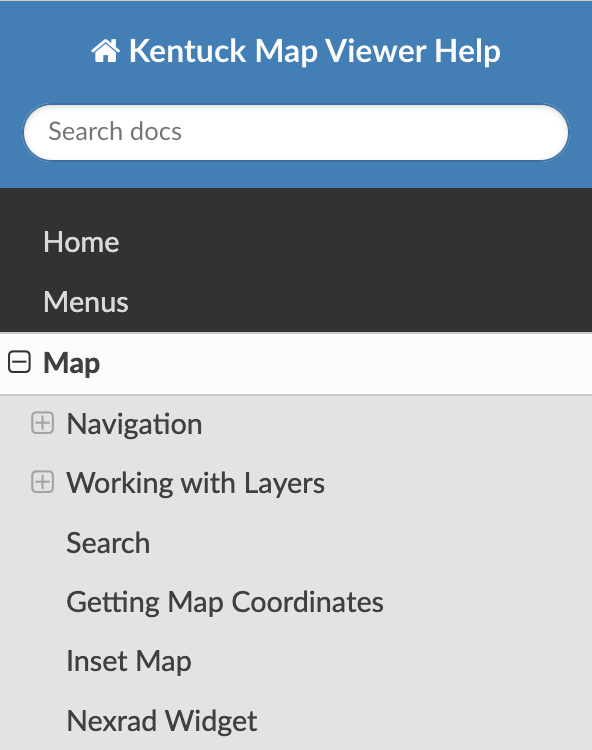
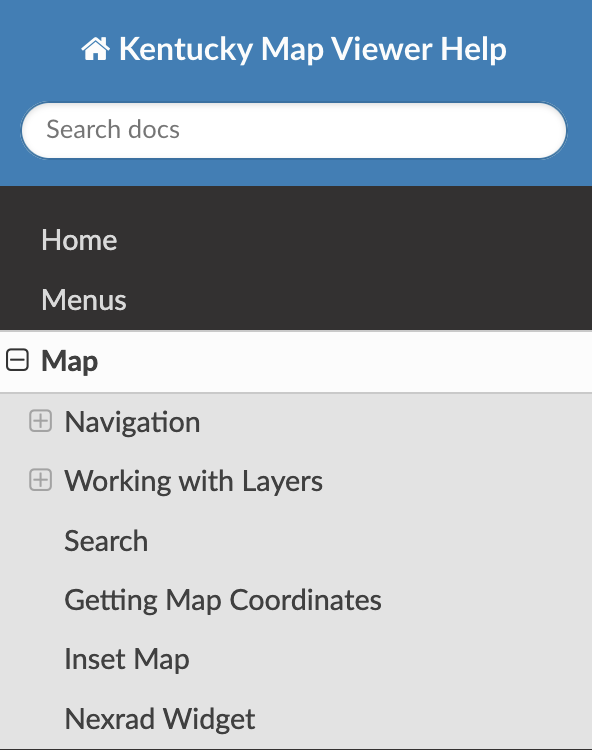
fix typos

diff --git a/ky-mapviewer-help/site/menu/index.html b/ky-mapviewer-help/site/menu/index.html
@@ -5,7 +5,7 @@
     <meta http-equiv="X-UA-Compatible" content="IE=edge" />
     <meta name="viewport" content="width=device-width, initial-scale=1.0" />
       <link rel="shortcut icon" href="../img/favicon.ico" />
-    <title>Menus - Kentuck Map Viewer Help</title>
+    <title>Menus - Kentucky Map Viewer Help</title>
     <link rel="stylesheet" href="../css/theme.css" />
     <link rel="stylesheet" href="../css/theme_extra.css" />
         <link rel="stylesheet" href="https://cdnjs.cloudflare.com/ajax/libs/highlight.js/11.8.0/styles/github.min.css" />
@@ -30,7 +30,7 @@
     <nav data-toggle="wy-nav-shift" class="wy-nav-side stickynav">
     <div class="wy-side-scroll">
       <div class="wy-side-nav-search">
-          <a href=".." class="icon icon-home"> Kentuck Map Viewer Help
+          <a href=".." class="icon icon-home"> Kentucky Map Viewer Help
         </a><div role="search">
   <form id ="rtd-search-form" class="wy-form" action="../search.html" method="get">
       <input type="text" name="q" placeholder="Search docs" aria-label="Search docs" title="Type search term here" />
@@ -60,7 +60,7 @@
     <section data-toggle="wy-nav-shift" class="wy-nav-content-wrap">
       <nav class="wy-nav-top" role="navigation" aria-label="Mobile navigation menu">
           <i data-toggle="wy-nav-top" class="fa fa-bars"></i>
-          <a href="..">Kentuck Map Viewer Help</a>
+          <a href="..">Kentucky Map Viewer Help</a>
         
       </nav>
       <div class="wy-nav-content">
@@ -97,7 +97,7 @@
 </tr>
 <tr>
 <td><img alt="School and Hospital Search" src="svg/school-hospital-search.svg" /></td>
-<td>This widget allows users to zoome to schools and hospitals.</td>
+<td>This widget allows users to zoom to schools and hospitals.</td>
 </tr>
 <tr>
 <td><img alt="Legend" src="svg/legends.svg" /></td>

diff --git a/ky-mapviewer-help/site/index.html b/ky-mapviewer-help/site/index.html
@@ -5,7 +5,7 @@
     <meta http-equiv="X-UA-Compatible" content="IE=edge" />
     <meta name="viewport" content="width=device-width, initial-scale=1.0" /><meta name="description" content="None" />
       <link rel="shortcut icon" href="img/favicon.ico" />
-    <title>Kentuck Map Viewer Help</title>
+    <title>Kentucky Map Viewer Help</title>
     <link rel="stylesheet" href="css/theme.css" />
     <link rel="stylesheet" href="css/theme_extra.css" />
         <link rel="stylesheet" href="https://cdnjs.cloudflare.com/ajax/libs/highlight.js/11.8.0/styles/github.min.css" />
@@ -30,7 +30,7 @@
     <nav data-toggle="wy-nav-shift" class="wy-nav-side stickynav">
     <div class="wy-side-scroll">
       <div class="wy-side-nav-search">
-          <a href="." class="icon icon-home"> Kentuck Map Viewer Help
+          <a href="." class="icon icon-home"> Kentucky Map Viewer Help
         </a><div role="search">
   <form id ="rtd-search-form" class="wy-form" action="./search.html" method="get">
       <input type="text" name="q" placeholder="Search docs" aria-label="Search docs" title="Type search term here" />
@@ -64,7 +64,7 @@
     <section data-toggle="wy-nav-shift" class="wy-nav-content-wrap">
       <nav class="wy-nav-top" role="navigation" aria-label="Mobile navigation menu">
           <i data-toggle="wy-nav-top" class="fa fa-bars"></i>
-          <a href=".">Kentuck Map Viewer Help</a>
+          <a href=".">Kentucky Map Viewer Help</a>
         
       </nav>
       <div class="wy-nav-content">
@@ -288,5 +288,5 @@
 
 <!--
 MkDocs version : 1.6.1
-Build Date UTC : 2025-10-30 15:26:27.384608+00:00
+Build Date UTC : 2025-10-31 14:53:48.985810+00:00
 -->

diff --git a/ky-mapviewer-help/site/map/index.html b/ky-mapviewer-help/site/map/index.html
@@ -5,7 +5,7 @@
     <meta http-equiv="X-UA-Compatible" content="IE=edge" />
     <meta name="viewport" content="width=device-width, initial-scale=1.0" />
       <link rel="shortcut icon" href="../img/favicon.ico" />
-    <title>Map - Kentuck Map Viewer Help</title>
+    <title>Map - Kentucky Map Viewer Help</title>
     <link rel="stylesheet" href="../css/theme.css" />
     <link rel="stylesheet" href="../css/theme_extra.css" />
         <link rel="stylesheet" href="https://cdnjs.cloudflare.com/ajax/libs/highlight.js/11.8.0/styles/github.min.css" />
@@ -30,7 +30,7 @@
     <nav data-toggle="wy-nav-shift" class="wy-nav-side stickynav">
     <div class="wy-side-scroll">
       <div class="wy-side-nav-search">
-          <a href=".." class="icon icon-home"> Kentuck Map Viewer Help
+          <a href=".." class="icon icon-home"> Kentucky Map Viewer Help
         </a><div role="search">
   <form id ="rtd-search-form" class="wy-form" action="../search.html" method="get">
       <input type="text" name="q" placeholder="Search docs" aria-label="Search docs" title="Type search term here" />
@@ -86,7 +86,7 @@
     <section data-toggle="wy-nav-shift" class="wy-nav-content-wrap">
       <nav class="wy-nav-top" role="navigation" aria-label="Mobile navigation menu">
           <i data-toggle="wy-nav-top" class="fa fa-bars"></i>
-          <a href="..">Kentuck Map Viewer Help</a>
+          <a href="..">Kentucky Map Viewer Help</a>
         
       </nav>
       <div class="wy-nav-content">

diff --git a/ky-mapviewer-help/site/search.html b/ky-mapviewer-help/site/search.html
@@ -5,7 +5,7 @@
     <meta http-equiv="X-UA-Compatible" content="IE=edge" />
     <meta name="viewport" content="width=device-width, initial-scale=1.0" />
       <link rel="shortcut icon" href="./img/favicon.ico" />
-    <title>Kentuck Map Viewer Help</title>
+    <title>Kentucky Map Viewer Help</title>
     <link rel="stylesheet" href="./css/theme.css" />
     <link rel="stylesheet" href="./css/theme_extra.css" />
         <link rel="stylesheet" href="https://cdnjs.cloudflare.com/ajax/libs/highlight.js/11.8.0/styles/github.min.css" />
@@ -23,7 +23,7 @@
     <nav data-toggle="wy-nav-shift" class="wy-nav-side stickynav">
     <div class="wy-side-scroll">
       <div class="wy-side-nav-search">
-          <a href="./." class="icon icon-home"> Kentuck Map Viewer Help
+          <a href="./." class="icon icon-home"> Kentucky Map Viewer Help
         </a><div role="search">
   <form id ="rtd-search-form" class="wy-form" action="./search.html" method="get">
       <input type="text" name="q" placeholder="Search docs" aria-label="Search docs" title="Type search term here" />
@@ -51,7 +51,7 @@
     <section data-toggle="wy-nav-shift" class="wy-nav-content-wrap">
       <nav class="wy-nav-top" role="navigation" aria-label="Mobile navigation menu">
           <i data-toggle="wy-nav-top" class="fa fa-bars"></i>
-          <a href="./.">Kentuck Map Viewer Help</a>
+          <a href="./.">Kentucky Map Viewer Help</a>
         
       </nav>
       <div class="wy-nav-content">

diff --git a/ky-mapviewer-help/site/404.html b/ky-mapviewer-help/site/404.html
@@ -5,7 +5,7 @@
     <meta http-equiv="X-UA-Compatible" content="IE=edge" />
     <meta name="viewport" content="width=device-width, initial-scale=1.0" />
       <link rel="shortcut icon" href="/img/favicon.ico" />
-    <title>Kentuck Map Viewer Help</title>
+    <title>Kentucky Map Viewer Help</title>
     <link rel="stylesheet" href="/css/theme.css" />
     <link rel="stylesheet" href="/css/theme_extra.css" />
         <link rel="stylesheet" href="https://cdnjs.cloudflare.com/ajax/libs/highlight.js/11.8.0/styles/github.min.css" />
@@ -23,7 +23,7 @@
     <nav data-toggle="wy-nav-shift" class="wy-nav-side stickynav">
     <div class="wy-side-scroll">
       <div class="wy-side-nav-search">
-          <a href="/." class="icon icon-home"> Kentuck Map Viewer Help
+          <a href="/." class="icon icon-home"> Kentucky Map Viewer Help
         </a><div role="search">
   <form id ="rtd-search-form" class="wy-form" action="//search.html" method="get">
       <input type="text" name="q" placeholder="Search docs" aria-label="Search docs" title="Type search term here" />
@@ -51,7 +51,7 @@
     <section data-toggle="wy-nav-shift" class="wy-nav-content-wrap">
       <nav class="wy-nav-top" role="navigation" aria-label="Mobile navigation menu">
           <i data-toggle="wy-nav-top" class="fa fa-bars"></i>
-          <a href="/.">Kentuck Map Viewer Help</a>
+          <a href="/.">Kentucky Map Viewer Help</a>
         
       </nav>
       <div class="wy-nav-content">

diff --git a/ky-mapviewer-help/docs/menu/index.md b/ky-mapviewer-help/docs/menu/index.md
@@ -8,7 +8,7 @@ The main toolbar can contain tools that interact with the map, bring up a widget
 | ---- | ----------- |
 | ![Zoom to County](svg/zoom-to-county.svg)      | The Zoom to County widget allows users to zoom to a particular County. |  
 | ![Zoom to City](svg/zoom-to-city.svg)          | The Zoom to City widget widget allows users to zoom to a particular City.  | 
-| ![School and Hospital Search](svg/school-hospital-search.svg)  | This widget allows users to zoome to schools and hospitals.  |   
+| ![School and Hospital Search](svg/school-hospital-search.svg)  | This widget allows users to zoom to schools and hospitals.  |   
 | ![Legend](svg/legends.svg)                     | The Legend widget shows the symbology of map layers and changes as layers<br>are turned on or off. |
 | ![Layers](svg/layers.svg)                      | The Map Layers widget shows the layers in the map and allows users to turn<br>them on, off, change the transparency, zoom to that layer, or even open the attribute table. |
 | ![Basemaps](svg/basemaps.svg)                  | The Base Map widget allows users to select from a gallery of available base<br>map layers. |
